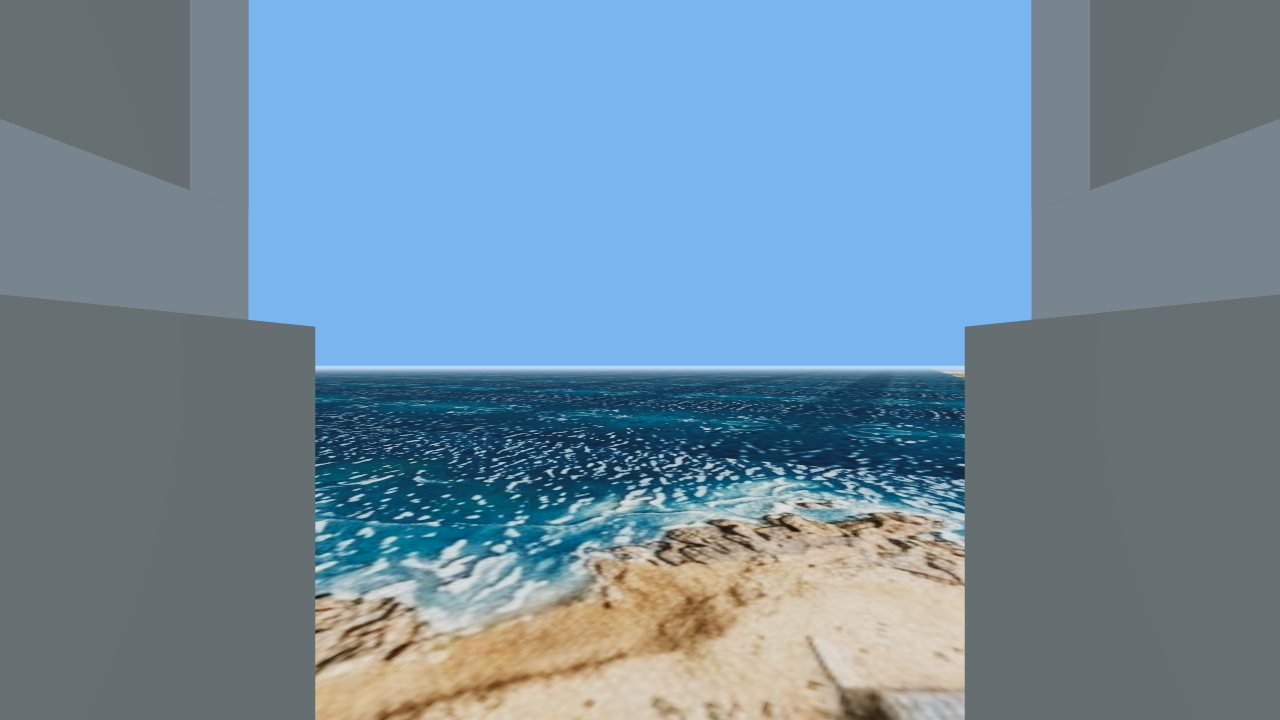
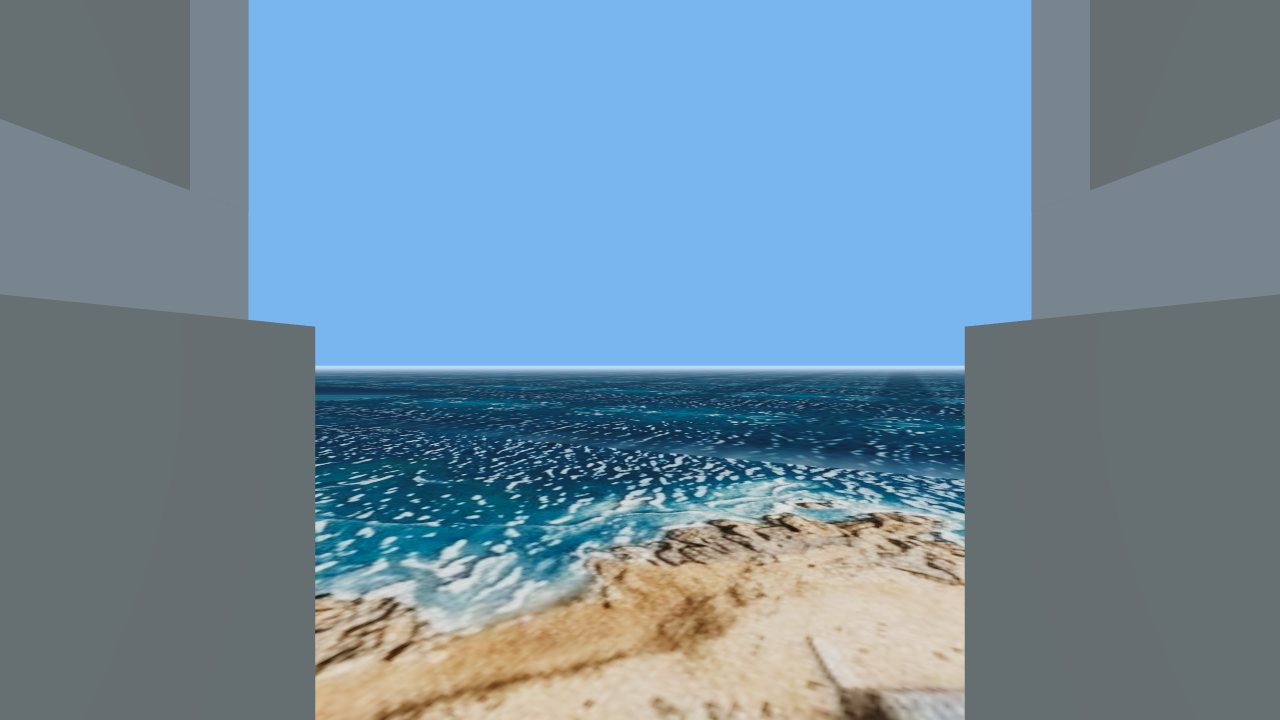
Mar aberto (não lago): textura estendida ao longo da costa, sem espelho; galeria regenerada
Claude-Session: https://claude.ai/code/session_01NEoTKHwpJiRAiMujuoZjPQ

Changed region(s): [[0.25, 0.5194, 0.75, 0.6722]]

diff --git a/src/data/terrain.ts b/src/data/terrain.ts
@@ -1,15 +1,15 @@
 /** Gerado a partir da foto do bairro (maquete): pegadas dos prédios e árvores detectadas por cor. */
-export const PHOTO = { src: '/terrain/bairro.jpg', width: 688, height: 1528 }
+export const PHOTO = { src: '/terrain/bairro.jpg', width: 1108, height: 3998 }
 
 /** trecho de mar aberto da foto (repetido espelhado para o mar além da borda) */
 export const SEA_TILE = { src: '/terrain/mar.jpg', width: 180, height: 160 }
 
 /** pixel da foto onde fica o centro da torre (foguete marcado pelo dono) */
-export const TOWER_PIXEL = { u: 330, v: 727 }
+export const TOWER_PIXEL = { u: 750, v: 1797 }
 
 /** [u, v, largura, profundidade, ângulo (°), andares, cor do telhado 0xRRGGBB] — medidas em pixels da foto */
 export type BuildingRect = readonly [number, number, number, number, number, number, number]
-export const BUILDINGS: readonly BuildingRect[] = [[56.0,55.5,47.9,37.1,10.3,5,11773068],[88.0,52.0,30.0,24.0,0.0,4,12101254],[124.5,53.0,39.0,26.0,0.0,5,14343120],[57.9,135.4,138.4,84.4,40.0,7,13151120],[148.8,82.9,99.4,26.9,-69.6,7,12885375],[265.5,44.5,9.0,5.0,-90.0,2,13749695],[442.0,54.5,136.0,29.0,0.0,7,12232072],[331.3,62.2,31.1,30.4,-45.0,4,11509900],[572.6,69.5,106.8,38.0,4.2,5,12033922],[256.7,64.9,18.9,9.1,48.4,2,12100753],[288.6,63.5,10.9,6.8,-76.0,2,11379598],[659.1,81.2,55.7,36.4,12.3,6,11376252],[239.3,65.4,9.4,5.4,-63.4,2,11773319],[281.9,87.5,28.3,25.4,86.6,3,11046780],[399.5,126.2,104.5,26.0,-85.5,7,13152401],[438.5,104.5,41.0,25.0,-90.0,4,12689535],[239.2,94.4,25.0,15.2,-26.6,2,11243891],[333.8,105.2,47.2,36.6,-2.9,4,11964271],[465.4,100.7,24.5,20.9,59.0,4,12358002],[380.0,100.0,20.0,10.0,-90.0,3,10983044],[490.7,107.3,30.8,20.0,-70.0,3,12291953],[523.0,108.4,42.3,24.1,-1.8,6,11830370],[582.7,113.1,24.6,19.2,-63.4,4,11831659],[629.7,117.0,73.4,29.1,4.4,5,11895907],[557.9,113.2,13.9,10.7,-63.4,2,10585198],[682.0,116.5,15.0,10.0,-90.0,2,10785407],[72.0,121.0,16.0,8.0,-90.0,2,12628112],[280.8,133.0,39.3,39.3,-6.0,5,11377023],[225.8,136.4,41.6,32.2,-8.7,4,11310203],[328.8,132.4,8.9,7.2,26.6,2,11575430],[433.3,149.7,38.4,21.4,-83.3,4,12293490],[678.0,155.0,30.0,18.0,-90.0,3,11769978],[329.4,157.0,25.6,10.3,-7.1,3,11444619],[275.0,166.0,22.0,18.0,0.0,4,11377289],[296.5,165.0,17.0,14.0,0.0,2,11049353],[293.8,179.6,24.1,12.9,-11.3,3,10588029],[235.0,172.5,32.0,21.0,0.0,3,11309690],[592.4,177.7,32.7,22.5,-42.0,3,12096877],[606.2,189.7,19.3,15.2,71.6,2,10784106],[517.0,173.5,9.0,6.0,-90.0,2,10916191],[184.5,188.4,33.1,7.2,84.3,3,11377010],[534.1,186.2,21.5,17.1,49.4,3,11701100],[330.5,182.5,17.0,9.0,0.0,2,10654849],[682.1,183.1,10.9,7.1,-8.1,2,10128509],[348.7,183.8,13.3,6.8,-8.1,2,10061426],[153.0,196.0,34.0,22.0,0.0,4,12890008],[80.8,207.6,109.5,49.3,-28.1,5,12824727],[343.8,199.9,44.5,16.5,-17.8,3,11174499],[241.5,192.0,21.0,8.0,0.0,2,10588547],[479.5,192.5,9.0,5.0,0.0,2,11374432],[288.2,199.9,41.9,18.7,-15.3,3,11968393],[239.5,204.0,17.4,7.0,-4.8,2,11245954],[399.0,212.0,26.0,20.0,0.0,3,11573613],[622.3,213.0,16.1,14.6,-24.4,2,13478029],[607.4,221.2,15.6,10.2,66.8,2,12362114],[635.6,239.1,38.0,27.7,48.4,5,11438701],[340.7,221.4,28.9,22.0,-9.5,3,11640711],[543.9,222.6,22.7,18.5,54.5,2,10851974],[429.0,216.5,20.0,13.0,0.0,3,12360043],[442.0,233.5,23.0,18.0,-90.0,3,12228456],[240.2,217.6,32.4,15.3,-11.3,3,11902345],[218.3,224.1,15.0,10.8,66.0,2,10851188],[295.9,219.5,13.1,8.2,-14.0,2,11965554],[279.2,223.2,22.5,13.4,-31.0,3,11113071],[293.1,241.0,43.7,17.2,-7.7,4,12098691],[415.8,272.4,105.6,35.4,71.6,7,13016950],[236.5,238.5,29.0,15.0,0.0,2,11903113],[581.7,242.6,26.8,9.3,-47.7,2,11048570],[77.0,240.0,12.0,10.0,-90.0,2,14209480],[526.5,245.7,13.0,8.8,-29.7,2,12362615],[93.0,254.0,18.1,5.4,84.3,2,12891551],[594.5,253.5,17.0,5.7,-45.0,2,9205347],[456.7,283.3,72.6,33.4,62.7,7,12161397],[241.6,262.1,40.5,18.4,-14.0,3,11967358],[668.8,258.3,12.7,7.8,45.0,2,11770224],[348.3,271.3,33.2,30.9,-21.4,6,11901312],[606.6,265.3,25.0,11.8,-53.1,3,10451806],[52.4,267.4,23.7,10.7,79.7,2,14275529],[522.6,266.4,14.1,10.2,76.0,2,12752235],[307.9,270.9,17.5,9.4,33.7,2,10786693],[478.2,269.9,14.3,5.8,63.4,2,11179894],[616.5,279.4,29.4,11.9,-57.7,3,10782312],[678.3,282.9,29.7,26.3,-35.2,4,11504757],[663.5,289.5,7.0,7.0,-90.0,2,11177851],[572.3,289.7,47.1,23.2,42.6,5,11373937],[506.1,285.5,36.6,10.9,-28.4,2,14131583],[532.0,279.2,10.8,5.4,-18.4,2,10250315],[300.0,295.0,46.0,32.0,0.0,5,12561042],[399.5,309.6,50.3,43.0,-27.4,4,13275504],[628.0,288.8,20.8,8.6,-56.3,3,11769469],[357.7,296.1,25.9,11.9,-20.6,3,10784374],[639.2,302.4,28.4,7.5,-52.6,3,11113339],[653.3,312.5,21.6,8.9,-56.3,3,10125158],[358.9,310.1,21.8,9.6,-11.3,2,9600108],[235.5,321.5,15.0,11.0,-90.0,2,12762801],[248.6,324.6,26.0,19.7,-49.4,2,11048837],[316.3,323.9,39.8,22.5,-11.9,4,12295293],[367.0,325.5,10.7,7.6,-63.4,2,12102295],[622.0,332.2,20.0,15.5,61.7,3,11112305],[606.6,335.7,13.9,12.5,-26.6,3,11242858],[591.0,347.5,23.0,14.0,-90.0,3,10980970],[569.0,357.0,31.4,21.3,-24.4,3,11375220],[290.6,330.5,11.4,6.5,78.7,2,12833998],[676.5,343.0,38.0,19.0,-90.0,4,11375483],[204.0,356.0,10.7,6.3,63.4,2,10784376],[300.1,376.1,114.1,46.8,0.5,6,12559494],[341.5,360.0,14.0,13.0,-90.0,3,13087885],[631.4,373.9,67.4,27.4,-24.4,6,11965299],[147.3,376.6,28.0,12.3,-5.7,3,11442296],[128.5,376.0,9.0,6.0,0.0,2,11704955],[138.2,386.1,11.5,7.8,-21.8,2,11114624],[120.8,391.4,24.2,13.7,3.0,3,12692111],[404.1,403.9,58.0,57.4,-24.9,5,12623487],[448.1,386.4,32.8,21.9,85.9,4,14127213],[209.5,376.0,8.0,7.0,-90.0,2,12429705],[162.9,406.6,81.1,36.5,-20.3,6,11963755],[500.9,392.3,24.3,10.7,67.2,3,12563869],[661.0,403.3,62.2,22.9,-22.6,5,11111532],[585.5,392.7,30.0,18.9,-33.7,3,11573626],[624.7,420.2,22.7,13.8,80.5,3,11176300],[323.5,428.5,25.0,21.0,-90.0,3,11959385],[351.0,425.5,30.0,20.6,-26.6,4,13413012],[454.3,416.4,13.4,6.7,26.6,2,10917503],[527.2,418.9,22.8,8.0,-26.6,2,11838091],[599.3,429.2,29.0,24.9,-4.4,4,11110501],[489.6,430.9,33.4,18.4,-12.1,4,11246214],[184.7,454.2,70.9,37.9,-20.9,5,11567976],[664.3,446.5,55.7,26.5,-23.7,6,10979432],[456.0,444.5,26.0,17.0,0.0,4,11443325],[535.0,451.5,25.9,21.8,59.0,3,10982782],[555.8,445.6,25.4,15.3,-14.9,3,11049349],[523.4,462.3,19.3,13.6,18.4,2,10523265],[504.7,467.4,19.3,12.8,-19.7,3,10655109],[479.1,476.8,34.5,14.9,-21.8,3,10522749],[445.4,483.8,25.1,13.5,-3.6,3,9864304],[459.6,489.9,12.5,7.4,-60.3,2,10654851],[423.6,491.7,20.1,15.2,-26.6,2,12230013],[389.9,442.4,14.2,5.9,5.7,2,13286566],[340.7,462.1,37.6,32.4,84.0,5,13471089],[298.4,465.4,51.9,26.3,-6.7,4,12880755],[422.1,462.8,31.2,13.7,4.2,2,11510416],[616.0,469.8,42.0,25.4,-27.9,6,11178098],[334.6,500.4,104.1,56.0,-12.5,6,12293495],[465.2,467.9,12.1,5.4,-26.6,2,12496795],[681.0,474.5,11.0,10.0,-90.0,2,11044457],[665.1,487.3,36.7,21.8,-27.9,4,10190947],[630.2,506.4,43.8,25.9,-26.6,4,11307627],[204.9,502.1,63.7,37.7,-21.4,7,11436385],[529.0,488.0,18.9,9.7,-14.0,2,14202525],[512.6,500.7,24.5,21.6,74.1,4,11704704],[544.5,497.0,13.9,13.4,-63.4,3,10458491],[533.8,504.6,25.2,11.4,53.1,2,10062196],[406.3,502.3,17.1,7.3,71.6,2,13680289],[224.1,554.2,63.0,52.3,65.4,7,13012845],[250.3,605.6,84.2,34.3,71.9,7,12879712],[456.0,532.5,15.0,14.0,-90.0,3,11706495],[577.3,562.3,65.8,60.5,-16.9,6,15460317],[349.4,552.2,24.7,17.1,71.6,3,11700840],[318.6,579.3,46.1,23.2,73.3,6,10783090],[475.7,570.1,32.3,20.2,-18.4,3,11633757],[495.0,584.5,16.0,9.0,0.0,2,10719359],[514.5,586.5,25.0,13.0,0.0,2,15328216],[504.9,601.2,20.0,17.5,78.7,3,13472116],[478.7,587.7,13.3,7.7,7.1,2,10326141],[656.4,606.4,45.1,34.4,-22.2,5,12620653],[550.8,609.7,28.6,7.4,-27.6,2,10720895],[605.1,621.1,41.9,33.0,-20.0,5,14999250],[311.0,618.0,8.0,6.0,-90.0,2,12364168],[521.7,628.4,27.5,17.8,-57.7,3,11707532],[563.9,623.6,27.2,11.7,-18.4,3,12150334],[438.9,628.0,17.7,8.6,-20.0,2,11180931],[431.3,649.3,41.2,19.6,-32.7,4,11904137],[493.1,643.5,36.5,32.2,60.9,4,13274983],[349.3,637.7,11.0,6.6,81.9,2,11180156],[669.1,652.2,36.9,30.0,58.2,4,13341810],[612.1,671.1,68.4,35.8,-36.9,7,12755587],[472.0,661.7,38.3,17.2,42.4,4,12825758],[440.0,665.5,22.8,13.6,-12.5,3,12496522],[523.4,667.6,23.3,10.0,32.5,2,10326137],[379.4,665.3,9.4,6.0,36.9,2,12298903],[254.7,680.1,19.6,8.2,71.6,2,12036756],[650.0,682.0,17.9,17.0,63.4,2,12223585],[683.5,689.5,13.0,7.0,-90.0,2,12486244],[659.5,699.2,20.2,15.1,-31.6,2,12093292],[613.0,701.0,12.0,10.0,-90.0,2,10587499],[488.5,717.9,59.4,29.2,-13.5,5,11107154],[638.8,709.5,11.9,10.0,68.2,2,11507570],[670.3,711.6,15.3,8.2,-29.1,2,10908503],[566.6,726.5,39.5,20.1,-9.0,4,11832177],[681.0,727.0,22.0,12.0,-90.0,3,13342321],[438.3,739.4,39.8,34.7,66.4,5,12891291],[458.7,762.6,24.3,14.3,58.4,3,14866109],[449.7,779.2,19.7,16.4,-48.0,2,12037270],[461.5,792.3,23.6,20.8,-29.7,4,10918020],[526.5,763.0,62.9,29.0,-45.0,4,12091745],[646.6,755.1,22.7,11.5,9.5,2,12555122],[644.7,773.0,29.2,18.1,-25.3,4,11961703],[678.5,758.0,20.0,17.0,-90.0,3,11305323],[401.6,775.2,38.8,29.3,59.0,4,14141615],[422.3,841.2,104.3,72.8,66.6,5,13540475],[571.9,764.8,17.9,15.7,-26.6,2,11639942],[549.7,779.5,32.1,24.0,-6.3,4,12881766],[385.8,833.1,92.1,30.0,63.4,7,14272944],[521.7,805.7,10.8,5.3,31.0,2,12891292],[673.9,809.8,30.4,11.8,-25.6,3,12426370],[484.7,830.7,34.7,34.1,61.7,5,10457215],[502.2,851.4,22.0,18.1,-29.1,3,10193529],[478.0,846.5,11.0,8.0,-90.0,2,10787467],[560.5,874.0,32.6,32.2,63.4,6,12222555],[684.5,867.0,16.0,5.0,-90.0,2,11970190],[607.6,880.7,28.2,22.4,-26.6,3,13335637],[625.8,896.6,22.4,12.5,-26.6,2,11631708],[572.2,901.4,25.0,15.2,-26.6,3,11575951],[582.4,918.9,40.0,28.9,61.9,4,11707279],[592.8,958.1,41.2,12.2,68.8,4,11378311],[672.8,917.8,51.5,27.9,69.4,5,11828571],[476.2,906.4,24.1,22.4,63.4,3,11111530],[442.3,923.0,39.6,20.9,-28.8,3,10849132],[682.0,907.0,8.0,6.0,0.0,2,10719857],[638.0,926.5,28.7,26.5,-25.2,4,12156760],[622.0,923.8,13.6,12.0,-71.6,2,12425850],[612.8,928.8,13.3,9.2,71.6,2,11444100],[399.0,923.0,14.0,8.0,-90.0,2,11773581],[545.8,947.7,53.2,42.2,59.0,7,11046768],[605.5,941.0,26.2,12.0,45.0,2,11378316],[614.9,961.4,17.7,10.8,31.0,2,11050123],[477.7,964.2,72.7,31.1,-29.7,7,12229755],[640.0,947.5,9.0,6.0,-90.0,2,12035210],[681.0,954.5,17.4,15.5,-18.4,3,12615780],[497.6,1002.5,73.2,46.9,-29.0,5,11966841],[656.3,979.8,28.6,24.9,-20.6,3,12615516],[608.9,989.6,20.8,11.5,54.0,3,10457465],[638.0,984.5,13.4,6.4,45.0,2,13547433],[632.1,994.9,14.1,8.7,-80.5,2,10918536],[620.0,1008.0,18.4,12.7,45.0,3,10918534],[634.5,1005.5,8.5,5.7,-45.0,2,11182734],[548.2,987.3,12.0,5.7,45.0,2,11181701],[576.0,1001.9,39.8,29.7,-34.4,5,10586217],[600.1,1023.0,18.3,11.8,66.0,2,9794641],[580.4,1032.7,23.3,21.4,70.0,4,10784632],[594.1,1029.7,13.6,5.6,76.0,2,9860688],[667.4,1005.8,25.4,22.3,-21.8,4,12088659],[521.5,1047.5,71.4,47.4,-27.0,5,11966841],[640.3,1024.2,21.1,10.5,-23.2,3,10721414],[648.5,1040.5,36.2,21.0,-26.6,4,10651499],[683.0,1049.5,15.0,8.0,-90.0,2,11246211],[594.7,1067.9,61.3,21.0,-26.6,5,11641486],[560.8,1089.2,18.4,16.3,45.0,3,11510157],[654.7,1064.5,21.2,10.2,-53.1,3,12024150],[674.1,1097.9,40.7,31.2,65.9,6,10980718],[635.4,1087.8,14.3,6.3,63.4,2,11443852],[542.9,1120.6,13.9,7.2,33.7,2,9337187],[594.7,1142.5,33.6,24.4,-28.6,4,12028273],[677.0,1147.0,24.8,24.5,-10.3,4,11764067],[533.0,1142.0,10.0,6.0,-90.0,2,11180670],[557.3,1149.1,13.9,7.6,63.4,2,8615013],[648.9,1159.8,25.0,11.2,-26.6,3,11628626],[670.2,1169.5,20.1,14.9,20.6,3,13142886],[682.5,1179.5,15.0,7.0,-90.0,2,12811100],[616.0,1170.0,10.0,6.0,0.0,2,11379083],[636.2,1207.1,31.2,27.5,87.9,4,10389095],[569.5,1231.2,56.4,7.3,65.6,4,12168601],[584.5,1266.0,10.0,5.0,-90.0,2,12234137],[622.1,1332.3,20.0,6.8,-48.0,2,12431253],[613.0,1347.8,15.7,5.9,-78.7,2,12759963],[623.2,1385.2,63.1,11.5,65.9,4,10720897],[663.1,1336.7,37.7,19.3,6.6,4,10389624],[644.0,1358.5,51.0,26.4,63.4,5,11102798],[660.0,1384.5,13.0,12.0,-90.0,2,10710353],[649.5,1388.0,16.0,9.0,-90.0,2,10319967],[675.4,1407.7,27.8,14.4,-36.9,2,9404532],[668.0,1516.5,19.0,16.0,-90.0,3,10718584],[681.0,1520.5,11.0,10.0,-90.0,2,10783093]]
+export const BUILDINGS: readonly BuildingRect[] = [[1011.0,1417.5,23.0,14.0,-90.0,3,10980970],[989.0,1427.0,31.4,21.3,-24.4,4,11375220],[624.0,1426.0,10.7,6.3,63.4,2,10784376],[761.5,1430.0,14.0,13.0,-90.0,3,13087885],[1051.4,1443.9,67.4,27.4,-24.4,5,11965299],[567.3,1446.6,28.0,12.3,-5.7,3,11442296],[548.5,1446.0,9.0,6.0,0.0,2,11704955],[558.2,1456.1,11.5,7.8,-21.8,2,11114624],[540.8,1461.4,24.2,13.7,3.0,3,12692111],[824.1,1473.9,58.0,57.4,-24.9,7,12623487],[868.1,1456.4,32.8,21.9,85.9,4,14127213],[629.5,1446.0,8.0,7.0,-90.0,2,12429705],[582.9,1476.6,81.1,36.5,-20.3,5,11963755],[920.9,1462.3,24.3,10.7,67.2,3,12563869],[1081.0,1473.3,62.2,22.9,-22.6,5,11111532],[1005.5,1462.7,30.0,18.9,-33.7,4,11573626],[1044.7,1490.2,22.7,13.8,80.5,2,11176300],[743.5,1498.5,25.0,21.0,-90.0,3,11959385],[771.0,1495.5,30.0,20.6,-26.6,3,13413012],[874.3,1486.4,13.4,6.7,26.6,2,10917503],[947.2,1488.9,22.8,8.0,-26.6,2,11838091],[1019.3,1499.2,29.0,24.9,-4.4,4,11110501],[909.6,1500.9,33.4,18.4,-12.1,4,11246214],[604.7,1524.2,70.9,37.9,-20.9,5,11567976],[1084.3,1516.5,55.7,26.5,-23.7,6,10979432],[876.0,1514.5,26.0,17.0,0.0,4,11443325],[955.0,1521.5,25.9,21.8,59.0,2,10982782],[975.8,1515.6,25.4,15.3,-14.9,3,11049349],[943.4,1532.3,19.3,13.6,18.4,2,10523265],[924.7,1537.4,19.3,12.8,-19.7,2,10655109],[899.1,1546.8,34.5,14.9,-21.8,4,10522749],[865.4,1553.8,25.1,13.5,-3.6,2,9864304],[879.6,1559.9,12.5,7.4,-60.3,2,10654851],[843.6,1561.7,20.1,15.2,-26.6,3,12230013],[809.9,1512.4,14.2,5.9,5.7,2,13286566],[760.7,1532.1,37.6,32.4,84.0,5,13471089],[718.4,1535.4,51.9,26.3,-6.7,5,12880755],[842.1,1532.8,31.2,13.7,4.2,3,11510416],[1036.0,1539.8,42.0,25.4,-27.9,5,11178098],[754.6,1570.4,104.1,56.0,-12.5,5,12293495],[885.2,1537.9,12.1,5.4,-26.6,2,12496795],[1101.0,1544.5,11.0,10.0,-90.0,2,11044457],[1085.1,1557.3,36.7,21.8,-27.9,3,10190947],[1050.2,1576.4,43.8,25.9,-26.6,4,11307627],[624.9,1572.1,63.7,37.7,-21.4,7,11436385],[949.0,1558.0,18.9,9.7,-14.0,2,14202525],[932.6,1570.7,24.5,21.6,74.1,4,11704704],[964.5,1567.0,13.9,13.4,-63.4,2,10458491],[953.8,1574.6,25.2,11.4,53.1,2,10062196],[826.3,1572.3,17.1,7.3,71.6,2,13680289],[644.1,1624.2,63.0,52.3,65.4,5,13012845],[670.3,1675.6,84.2,34.3,71.9,5,12879712],[876.0,1602.5,15.0,14.0,-90.0,2,11706495],[997.3,1632.3,65.8,60.5,-16.9,5,15460317],[769.4,1622.2,24.7,17.1,71.6,3,11700840],[738.6,1649.3,46.1,23.2,73.3,5,10783090],[895.7,1640.1,32.3,20.2,-18.4,4,11633757],[915.0,1654.5,16.0,9.0,0.0,2,10719359],[934.5,1656.5,25.0,13.0,0.0,3,15328216],[924.9,1671.2,20.0,17.5,78.7,2,13472116],[898.7,1657.7,13.3,7.7,7.1,2,10326141],[1076.4,1676.4,45.1,34.4,-22.2,5,12620653],[970.8,1679.7,28.6,7.4,-27.6,2,10720895],[1025.1,1691.1,41.9,33.0,-20.0,5,14999250],[731.0,1688.0,8.0,6.0,-90.0,2,12364168],[941.7,1698.4,27.5,17.8,-57.7,3,11707532],[983.9,1693.6,27.2,11.7,-18.4,3,12150334],[858.9,1698.0,17.7,8.6,-20.0,2,11180931],[851.3,1719.3,41.2,19.6,-32.7,3,11904137],[913.1,1713.5,36.5,32.2,60.9,5,13274983],[769.3,1707.7,11.0,6.6,81.9,2,11180156],[1089.1,1722.2,36.9,30.0,58.2,4,13341810],[1032.1,1741.1,68.4,35.8,-36.9,5,12755587],[892.0,1731.7,38.3,17.2,42.4,3,12825758],[860.0,1735.5,22.8,13.6,-12.5,3,12496522],[943.4,1737.6,23.3,10.0,32.5,2,10326137],[799.4,1735.3,9.4,6.0,36.9,2,12298903],[674.7,1750.1,19.6,8.2,71.6,2,12036756],[1070.0,1752.0,17.9,17.0,63.4,2,12223585],[1103.5,1759.5,13.0,7.0,-90.0,2,12486244],[1079.5,1769.2,20.2,15.1,-31.6,3,12093292],[1033.0,1771.0,12.0,10.0,-90.0,2,10587499],[908.5,1787.9,59.4,29.2,-13.5,5,11107154],[1058.8,1779.5,11.9,10.0,68.2,2,11507570],[1090.3,1781.6,15.3,8.2,-29.1,2,10908503],[986.6,1796.5,39.5,20.1,-9.0,4,11832177],[1101.0,1797.0,22.0,12.0,-90.0,3,13342321],[858.3,1809.4,39.8,34.7,66.4,4,12891291],[878.7,1832.6,24.3,14.3,58.4,3,14866109],[869.7,1849.2,19.7,16.4,-48.0,3,12037270],[881.5,1862.3,23.6,20.8,-29.7,4,10918020],[946.5,1833.0,62.9,29.0,-45.0,5,12091745],[1066.6,1825.1,22.7,11.5,9.5,2,12555122],[1064.7,1843.0,29.2,18.1,-25.3,4,11961703],[1098.5,1828.0,20.0,17.0,-90.0,3,11305323],[821.6,1845.2,38.8,29.3,59.0,4,14141615],[842.3,1911.2,104.3,72.8,66.6,6,13540475],[991.9,1834.8,17.9,15.7,-26.6,3,11639942],[969.7,1849.5,32.1,24.0,-6.3,4,12881766],[805.8,1903.1,92.1,30.0,63.4,5,14272944],[941.7,1875.7,10.8,5.3,31.0,2,12891292],[1093.9,1879.8,30.4,11.8,-25.6,3,12426370],[904.7,1900.7,34.7,34.1,61.7,6,10457215],[922.2,1921.4,22.0,18.1,-29.1,3,10193529],[898.0,1916.5,11.0,8.0,-90.0,2,10787467],[980.5,1944.0,32.6,32.2,63.4,5,12222555],[1104.5,1937.0,16.0,5.0,-90.0,2,11970190],[1027.6,1950.7,28.2,22.4,-26.6,3,13335637],[1045.8,1966.6,22.4,12.5,-26.6,3,11631708],[992.2,1971.4,25.0,15.2,-26.6,2,11575951],[1002.4,1988.9,40.0,28.9,61.9,5,11707279],[1012.8,2028.1,41.2,12.2,68.8,4,11378311],[1092.8,1987.8,51.5,27.9,69.4,4,11828571],[896.2,1976.4,24.1,22.4,63.4,4,11111530],[862.3,1993.0,39.6,20.9,-28.8,4,10849132],[1102.0,1977.0,8.0,6.0,0.0,2,10719857],[1058.0,1996.5,28.7,26.5,-25.2,4,12156760],[1042.0,1993.8,13.6,12.0,-71.6,2,12425850],[1032.8,1998.8,13.3,9.2,71.6,2,11444100],[819.0,1993.0,14.0,8.0,-90.0,2,11773581],[965.8,2017.7,53.2,42.2,59.0,6,11046768],[1025.5,2011.0,26.2,12.0,45.0,3,11378316],[1034.9,2031.4,17.7,10.8,31.0,2,11050123],[897.7,2034.2,72.7,31.1,-29.7,5,12229755],[1060.0,2017.5,9.0,6.0,-90.0,2,12035210],[1101.0,2024.5,17.4,15.5,-18.4,3,12615780],[917.6,2072.5,73.2,46.9,-29.0,5,11966841],[1076.3,2049.8,28.6,24.9,-20.6,4,12615516],[1028.9,2059.6,20.8,11.5,54.0,2,10457465],[1058.0,2054.5,13.4,6.4,45.0,2,13547433],[1052.1,2064.9,14.1,8.7,-80.5,2,10918536],[1040.0,2078.0,18.4,12.7,45.0,3,10918534],[1054.5,2075.5,8.5,5.7,-45.0,2,11182734],[968.2,2057.3,12.0,5.7,45.0,2,11181701],[996.0,2071.9,39.8,29.7,-34.4,5,10586217],[1020.1,2093.0,18.3,11.8,66.0,2,9794641],[1000.4,2102.7,23.3,21.4,70.0,3,10784632],[1014.1,2099.7,13.6,5.6,76.0,2,9860688],[1087.4,2075.8,25.4,22.3,-21.8,4,12088659],[941.5,2117.5,71.4,47.4,-27.0,6,11966841],[1060.3,2094.2,21.1,10.5,-23.2,3,10721414],[1068.5,2110.5,36.2,21.0,-26.6,4,10651499],[1103.0,2119.5,15.0,8.0,-90.0,2,11246211],[1014.7,2137.9,61.3,21.0,-26.6,5,11641486],[980.8,2159.2,18.4,16.3,45.0,3,11510157],[1074.7,2134.5,21.2,10.2,-53.1,2,12024150],[1094.1,2167.9,40.7,31.2,65.9,5,10980718],[1055.4,2157.8,14.3,6.3,63.4,2,11443852],[962.9,2190.6,13.9,7.2,33.7,2,9337187],[1014.7,2212.5,33.6,24.4,-28.6,4,12028273],[1097.0,2217.0,24.8,24.5,-10.3,3,11764067],[953.0,2212.0,10.0,6.0,-90.0,2,11180670],[977.3,2219.1,13.9,7.6,63.4,2,8615013],[1068.9,2229.8,25.0,11.2,-26.6,3,11628626],[1090.2,2239.5,20.1,14.9,20.6,2,13142886],[1102.5,2249.5,15.0,7.0,-90.0,2,12811100],[1036.0,2240.0,10.0,6.0,0.0,2,11379083],[1056.2,2277.1,31.2,27.5,87.9,3,10389095],[989.5,2301.2,56.4,7.3,65.6,4,12168601],[1004.5,2336.0,10.0,5.0,-90.0,2,12234137],[1042.1,2402.3,20.0,6.8,-48.0,2,12431253],[1033.0,2417.8,15.7,5.9,-78.7,2,12759963],[1043.2,2455.2,63.1,11.5,65.9,4,10720897],[1083.1,2406.7,37.7,19.3,6.6,4,10389624],[1064.0,2428.5,51.0,26.4,63.4,5,11102798],[1080.0,2454.5,13.0,12.0,-90.0,2,10710353],[1069.5,2458.0,16.0,9.0,-90.0,2,10319967],[1095.4,2477.7,27.8,14.4,-36.9,2,9404532],[1088.0,2586.5,19.0,16.0,-90.0,3,10718584],[1101.0,2590.5,11.0,10.0,-90.0,2,10783093]]
 
 /** [u, v, raio] em pixels da foto */
-export const TREES: readonly (readonly [number, number, number])[] = [[654.5,41.0,2.1],[677.1,43.3,2.9],[286.3,47.3,2.9],[377.1,50.3,3.3],[200.0,59.3,3.0],[675.8,62.1,6.2],[189.9,79.8,6.5],[254.5,78.3,2.1],[110.7,87.8,6.4],[261.7,90.4,2.4],[479.4,92.8,2.5],[549.4,102.2,2.1],[568.9,105.2,4.8],[177.8,106.8,3.0],[565.1,126.0,4.7],[683.5,133.8,4.4],[375.0,134.6,1.9],[64.5,137.5,3.0],[136.3,139.1,2.4],[358.4,138.7,3.2],[204.3,155.4,6.2],[185.7,155.1,6.4],[519.1,148.5,3.6],[296.2,149.2,2.5],[474.4,159.3,3.9],[216.9,159.2,3.1],[347.6,161.1,2.5],[663.9,165.3,4.0],[327.0,167.5,2.8],[208.3,183.2,5.7],[40.5,182.5,2.8],[93.3,186.1,4.4],[106.6,183.0,2.3],[513.9,182.3,2.4],[600.4,183.2,2.1],[619.5,186.3,3.7],[338.7,190.3,2.6],[466.8,192.6,4.3],[68.9,193.7,2.7],[80.5,192.5,2.0],[450.2,196.0,3.1],[555.9,203.3,5.7],[498.6,202.2,2.6],[216.0,206.4,5.3],[508.6,205.8,4.4],[581.7,209.9,4.9],[192.6,209.8,2.1],[293.3,209.9,2.8],[459.0,213.5,2.0],[306.6,220.1,3.4],[562.0,216.4,3.7],[195.7,226.3,1.8],[330.2,227.3,2.4],[569.0,228.0,1.9],[58.7,233.4,5.6],[108.5,242.7,5.0],[125.8,238.1,3.6],[537.2,239.6,2.3],[256.5,245.3,2.6],[456.8,252.7,6.6],[197.6,249.7,2.4],[654.1,254.9,3.8],[108.7,257.6,3.3],[533.0,263.4,5.8],[582.4,261.3,3.1],[436.5,269.0,3.6],[108.3,269.1,2.9],[198.4,270.8,4.1],[283.9,275.1,3.8],[219.5,283.7,6.4],[396.9,279.6,5.2],[111.0,279.6,4.5],[490.3,275.3,1.8],[243.9,281.4,6.3],[646.5,285.6,4.0],[67.7,293.2,3.7],[201.7,293.3,3.3],[376.2,301.7,3.7],[113.3,302.7,1.8],[600.1,305.6,3.0],[92.7,306.7,1.8],[263.7,312.0,4.9],[139.1,313.6,5.0],[666.3,316.9,3.9],[117.0,319.2,2.6],[355.7,323.1,3.0],[205.9,327.8,3.1],[118.1,328.2,2.6],[304.5,329.0,3.8],[654.2,328.7,2.9],[206.5,340.6,4.8],[260.4,334.5,4.8],[422.8,336.2,2.1],[573.6,338.9,5.1],[305.2,342.1,4.4],[396.1,342.0,4.9],[616.5,349.9,2.6],[364.2,356.4,2.3],[481.7,371.2,4.6],[470.2,374.1,2.8],[216.3,386.2,5.8],[233.5,382.0,1.8],[466.5,393.8,4.8],[344.6,403.6,5.5],[222.7,402.6,3.7],[457.7,401.9,5.0],[473.5,408.9,5.9],[278.3,410.3,1.8],[684.9,425.4,2.0],[231.3,432.9,5.0],[516.2,429.1,3.8],[650.6,441.5,3.1],[291.4,445.7,3.4],[366.0,444.5,3.0],[238.1,451.7,5.8],[597.7,448.7,1.8],[632.6,451.8,2.1],[445.2,455.2,2.9],[457.5,459.2,4.5],[399.6,461.7,2.2],[267.2,469.9,5.9],[684.3,464.0,2.7],[402.0,469.1,2.5],[446.6,469.7,3.0],[419.2,476.9,5.4],[311.2,480.4,2.9],[273.2,486.2,4.2],[406.6,486.0,2.3],[330.6,495.8,4.1],[444.9,497.5,3.5],[605.5,500.9,2.3],[551.7,506.9,3.3],[293.5,509.5,3.8],[258.2,510.2,2.0],[571.7,526.6,5.3],[266.9,534.6,4.1],[444.6,529.8,2.1],[525.0,529.0,1.9],[570.6,537.1,3.1],[474.3,540.7,5.6],[599.0,542.1,3.1],[442.2,550.9,2.7],[457.6,558.3,4.1],[495.5,564.5,2.3],[521.6,569.9,6.0],[281.5,572.6,5.2],[547.5,573.5,2.4],[684.8,577.0,3.9],[505.6,577.3,3.3],[453.8,584.5,5.3],[550.4,582.6,2.3],[677.6,590.0,1.9],[556.8,599.1,2.7],[289.8,602.0,2.0],[543.7,605.0,3.0],[575.5,609.0,6.1],[685.7,613.5,2.1],[677.9,620.7,2.3],[584.7,629.1,3.8],[501.8,632.3,2.5],[552.4,640.0,3.3],[506.3,643.2,2.7],[676.9,643.2,2.0],[551.9,657.0,2.9],[686.4,665.7,2.5],[562.1,666.4,2.4],[271.6,672.3,3.9],[557.5,672.3,4.1],[676.4,680.7,4.6],[405.0,702.0,1.9],[410.1,712.3,4.4],[418.7,715.6,2.4],[534.0,720.5,2.6],[540.9,727.3,3.0],[671.0,734.5,3.1],[547.8,734.2,2.5],[511.0,745.0,1.9],[636.3,760.5,5.0],[498.8,767.3,2.4],[686.2,774.5,1.8],[634.3,781.7,2.4],[383.9,787.4,2.4],[501.3,789.3,2.4],[389.1,796.3,3.2],[503.0,817.5,5.6],[651.1,822.7,3.2],[649.4,829.6,2.3],[424.1,844.2,5.0],[634.1,838.1,3.5],[489.0,860.3,3.9],[590.2,880.3,2.6],[581.3,886.3,1.8],[445.2,941.6,2.1],[647.4,1006.2,3.1],[637.5,1014.4,2.2],[627.0,1019.0,1.9],[669.2,1038.5,2.3],[682.0,1064.8,5.1],[525.5,1091.5,2.0],[610.3,1094.3,1.8],[509.8,1115.2,6.6],[650.0,1122.4,2.9],[517.6,1185.6,6.4],[663.5,1184.7,2.4],[595.0,1213.1,3.9],[572.2,1309.6,5.7],[654.2,1323.4,4.0],[685.0,1331.6,3.0],[584.6,1349.5,6.3],[595.3,1378.7,1.8],[631.5,1381.6,2.3],[673.7,1385.0,3.0],[634.5,1457.3,3.4],[680.7,1480.7,4.1]]
+export const TREES: readonly (readonly [number, number, number])[] = [[626.5,1410.6,4.8],[680.4,1404.5,4.8],[842.8,1406.2,2.1],[993.6,1408.9,5.1],[725.2,1412.1,4.4],[816.1,1412.0,4.9],[1036.5,1419.9,2.6],[784.2,1426.4,2.3],[901.7,1441.2,4.6],[890.2,1444.1,2.8],[636.3,1456.2,5.8],[653.5,1452.0,1.8],[886.5,1463.8,4.8],[764.6,1473.6,5.5],[642.7,1472.6,3.7],[877.7,1471.9,5.0],[893.5,1478.9,5.9],[698.3,1480.3,1.8],[1104.9,1495.4,2.0],[651.3,1502.9,5.0],[936.2,1499.1,3.8],[1070.6,1511.5,3.1],[711.4,1515.7,3.4],[786.0,1514.5,3.0],[658.1,1521.7,5.8],[1017.7,1518.7,1.8],[1052.6,1521.8,2.1],[865.2,1525.2,2.9],[877.5,1529.2,4.5],[819.6,1531.7,2.2],[687.2,1539.9,5.9],[1104.3,1534.0,2.7],[822.0,1539.1,2.5],[866.6,1539.7,3.0],[839.2,1546.9,5.4],[731.2,1550.4,2.9],[693.2,1556.2,4.2],[826.6,1556.0,2.3],[750.6,1565.8,4.1],[864.9,1567.5,3.5],[1025.5,1570.9,2.3],[971.7,1576.9,3.3],[713.5,1579.5,3.8],[678.2,1580.2,2.0],[991.7,1596.6,5.3],[686.9,1604.6,4.1],[864.6,1599.8,2.1],[945.0,1599.0,1.9],[990.6,1607.1,3.1],[894.3,1610.7,5.6],[1019.0,1612.1,3.1],[862.2,1620.9,2.7],[877.6,1628.3,4.1],[915.5,1634.5,2.3],[941.6,1639.9,6.0],[701.5,1642.6,5.2],[967.5,1643.5,2.4],[1104.8,1647.0,3.9],[925.6,1647.3,3.3],[873.8,1654.5,5.3],[970.4,1652.6,2.3],[1097.6,1660.0,1.9],[976.8,1669.1,2.7],[709.8,1672.0,2.0],[963.7,1675.0,3.0],[995.5,1679.0,6.1],[1105.7,1683.5,2.1],[1097.9,1690.7,2.3],[1004.7,1699.1,3.8],[921.8,1702.3,2.5],[972.4,1710.0,3.3],[926.3,1713.2,2.7],[1096.9,1713.2,2.0],[971.9,1727.0,2.9],[1106.4,1735.7,2.5],[982.1,1736.4,2.4],[691.6,1742.3,3.9],[977.5,1742.3,4.1],[1096.4,1750.7,4.6],[825.0,1772.0,1.9],[830.1,1782.3,4.4],[838.7,1785.6,2.4],[954.0,1790.5,2.6],[960.9,1797.3,3.0],[1091.0,1804.5,3.1],[967.8,1804.2,2.5],[931.0,1815.0,1.9],[1056.3,1830.5,5.0],[918.8,1837.3,2.4],[1106.2,1844.5,1.8],[1054.3,1851.7,2.4],[803.9,1857.4,2.4],[921.3,1859.3,2.4],[809.1,1866.3,3.2],[923.0,1887.5,5.6],[1071.1,1892.7,3.2],[1069.4,1899.6,2.3],[844.1,1914.2,5.0],[1054.1,1908.1,3.5],[909.0,1930.3,3.9],[1010.2,1950.3,2.6],[1001.3,1956.3,1.8],[865.2,2011.6,2.1],[1067.4,2076.2,3.1],[1057.5,2084.4,2.2],[1047.0,2089.0,1.9],[1089.2,2108.5,2.3],[1102.0,2134.8,5.1],[945.5,2161.5,2.0],[1030.3,2164.3,1.8],[929.8,2185.2,6.6],[1070.0,2192.4,2.9],[937.6,2255.6,6.4],[1083.5,2254.7,2.4],[1015.0,2283.1,3.9],[992.2,2379.6,5.7],[1074.2,2393.4,4.0],[1105.0,2401.6,3.0],[1004.6,2419.5,6.3],[1015.3,2448.7,1.8],[1051.5,2451.6,2.3],[1093.7,2455.0,3.0],[1054.5,2527.3,3.4],[1100.7,2550.7,4.1]]

diff --git a/src/components/scene/Terrain.tsx b/src/components/scene/Terrain.tsx
@@ -3,6 +3,7 @@ import { useLoader } from '@react-three/fiber'
 import {
   BoxGeometry,
   CanvasTexture,
+  ClampToEdgeWrapping,
   Color,
   type InstancedMesh,
   MeshStandardMaterial,
@@ -34,8 +35,6 @@ export const ALPHA = (27 * Math.PI) / 180
 const COS = Math.cos(ALPHA)
 const SIN = Math.sin(ALPHA)
 const { width: PW, height: PH } = PHOTO
-/** abaixo desta linha (px) a borda esquerda da foto é mar aberto; acima dela é praia e cidade */
-const SEA_FROM_V = 560
 
 /** Pixel da foto -> mundo (x, z): o mar (esquerda da foto) vai para -z. */
 export function photoToWorld(u: number, v: number): [number, number] {
@@ -94,20 +93,11 @@ interface Placed {
 function tilesFor(u: number, v: number, angle: number): Placed[] {
   const out: Placed[] = []
   const add = (uu: number, vv: number, a: number) => {
-    if (uu < 0 && vv > SEA_FROM_V - 20) return // seria sobre o mar
     out.push({ u: uu, v: vv, angle: a })
   }
   add(u, v, angle)
-  // espelho na borda direita (u = PW)
+  // espelho na borda direita (u = PW); acima e abaixo a foto já é estendida ao longo da avenida
   add(2 * PW - u, v, 180 - angle)
-  add(2 * PW - u, -v, 180 + angle)
-  add(2 * PW - u, 2 * PH - v, 180 + angle)
-  // espelho no topo e na base
-  add(u, -v, -angle)
-  add(u, 2 * PH - v, -angle)
-  // espelho na borda esquerda (u = 0): só a faixa de cidade/praia
-  add(-u, v, 180 - angle)
-  add(-u, -v, 180 + angle)
   return out
 }
 /** Todos os prédios do bairro numa malha instanciada: parede com janelas (UV por metro) e telhado na cor da foto. */
@@ -284,7 +274,8 @@ const SEA_URL = SEA_TILE.src.replace(/^\//, import.meta.env.BASE_URL)
 function PhotoGround({ night }: { night: number }) {
   const [photo, seaMap] = useLoader(TextureLoader, [PHOTO_URL, SEA_URL])
   useLayoutEffect(() => {
-    photo.wrapS = photo.wrapT = MirroredRepeatWrapping
+    photo.wrapS = MirroredRepeatWrapping // borda inland: espelha
+    photo.wrapT = ClampToEdgeWrapping // ao longo da avenida a foto já foi estendida
     photo.colorSpace = SRGBColorSpace
     photo.anisotropy = 8
     photo.needsUpdate = true
@@ -320,7 +311,6 @@ function PhotoGround({ night }: { night: number }) {
 
   const tint = useMemo(() => new Color('#ffffff').lerp(new Color('#4f5d7c'), night * 0.75), [night])
   const [cx, cz] = photoToWorld(PW / 2, PH / 2)
-  const seaZ = (SEA_FROM_V - PH / 2) * S
 
   return (
     <group position={[cx, 0, cz]} rotation={[0, -Math.PI / 2 - ALPHA, 0]}>
@@ -330,7 +320,7 @@ function PhotoGround({ night }: { night: number }) {
       <mesh geometry={outerGeo} position={[0, -0.05, 0]} receiveShadow>
         <meshStandardMaterial map={photo} color={tint} roughness={1} />
       </mesh>
-      <mesh geometry={seaGeo} position={[-pw / 2 - 1250, -0.025, seaZ + 2000]}>
+      <mesh geometry={seaGeo} position={[-pw / 2 - 1250, -0.025, 0]}>
         <meshStandardMaterial map={seaMap} color={tint} roughness={1} polygonOffset polygonOffsetFactor={-2} polygonOffsetUnits={-2} />
       </mesh>
     </group>

diff --git a/CLAUDE.md b/CLAUDE.md
@@ -260,13 +260,14 @@ O dono do projeto enviou a planta T3 com móveis desenhados e um exemplo de reco
 
 - **Uma só torre** (`MAIN_TOWER`); as outras duas e `City.tsx` foram removidas.
 - **Dimensões:** `FLOOR_HEIGHT=0.62`, núcleo 7,4 × 5,0; cada bloco de varanda ocupa o andar inteiro; células alternam em xadrez (há células e andares sem varanda).
-- **Bairro** (`Terrain.tsx`, `src/data/terrain.ts`, `public/terrain/bairro.jpg` e `mar.jpg`): foto da maquete do bairro enviada pelo dono; o foguete marca a torre (pixel 330,727 = `TOWER_PIXEL`) e o azul grande é o mar. Mapeamento `photoToWorld(u,v)` com giro `ALPHA=27°` (avenida beira-mar paralela ao eixo x, mar em -z) e `S = 0,6 m/px × 0,62/3` unidades/px. O chão é a foto num plano girado, com a foto espelhada ao redor (plano externo) e o mar aberto à esquerda da borda (trecho `mar.jpg` repetido espelhado).
+- **Bairro** (`Terrain.tsx`, `src/data/terrain.ts`, `public/terrain/bairro.jpg` e `mar.jpg`): foto da maquete do bairro enviada pelo dono; o foguete marca a torre (pixel 330,727 = `TOWER_PIXEL`) e o azul grande é o mar. Mapeamento `photoToWorld(u,v)` com giro `ALPHA=27°` (avenida beira-mar paralela ao eixo x, mar em -z) e `S = 0,6 m/px × 0,62/3` unidades/px. O chão é a foto num plano girado, com a foto espelhada ao redor (plano externo) e o mar aberto à esquerda da borda (trecho `mar.jpg` repetido espelhado). A textura final (`bairro.jpg`, 1108×3998) é a foto sem o topo, com mar estendido à esquerda e a costa/avenida estendida ao norte e ao sul por cisalhamento e desfoque (sem espelho), para o mar nunca parecer um lago.
 - **Prédios e árvores** foram detectados por cor (OpenCV: telhados laranja, bege e brancos → retângulos orientados, com divisão por watershed) e ficam em `BUILDINGS` (273 pegadas: u, v, largura, profundidade, ângulo, andares por área, cor do telhado) e `TREES` (214). Uma única `InstancedMesh` com shader: parede com janelas por UV em metros, telhado na cor da foto, janelas acesas à noite (`uNight`). As cópias espelhadas da foto também recebem prédios (`tilesFor`).
 - **Reprodução:** o script de detecção ficou no scratchpad da sessão (não versionado); refazer com a mesma lógica se a foto mudar (retirar o foguete com inpaint e preencher as margens de madeira/branco espelhando o mar).
 - **Pendências:** alturas dos prédios são estimadas pela área; foto em perspectiva (tratada como vista de cima); casas de telhado cinza-bege podem faltar; texturas de prédios iguais; confirmar direitos de uso da foto (manter repositório privado).
 - **Localização exata do prédio (Google Maps do dono):** 41.201353, -8.708498 (Leça da Palmeira). Usar como centro do mapa em `Location`.
 
 **Pendências da revisão do terreno/torre única (restantes):**
+- Mar do terreno é só textura: sem cor do céu/reflexo no pôr do sol; a foto já tem luz embutida e ainda recebe sol (considerar material básico tingido); alturas das casas pequenas superestimadas; janelas acendem todas juntas.
 - Foto do terreno não é liberada (`useLoader` guarda em cache); sem LOD nas árvores.
 - Voo reto até a varanda ainda pode atravessar o núcleo (ver etapa 4).
 - Resolvido: dispose de texturas/materiais, z-fighting (polygonOffset), ErrorBoundary + Suspense da foto com `BASE_URL`, sombra 2048/4096 por tela, chão estendido, estrelas, `distanceFactor` do rótulo, constantes de câmera em `lib/cameraConsts.ts`.
